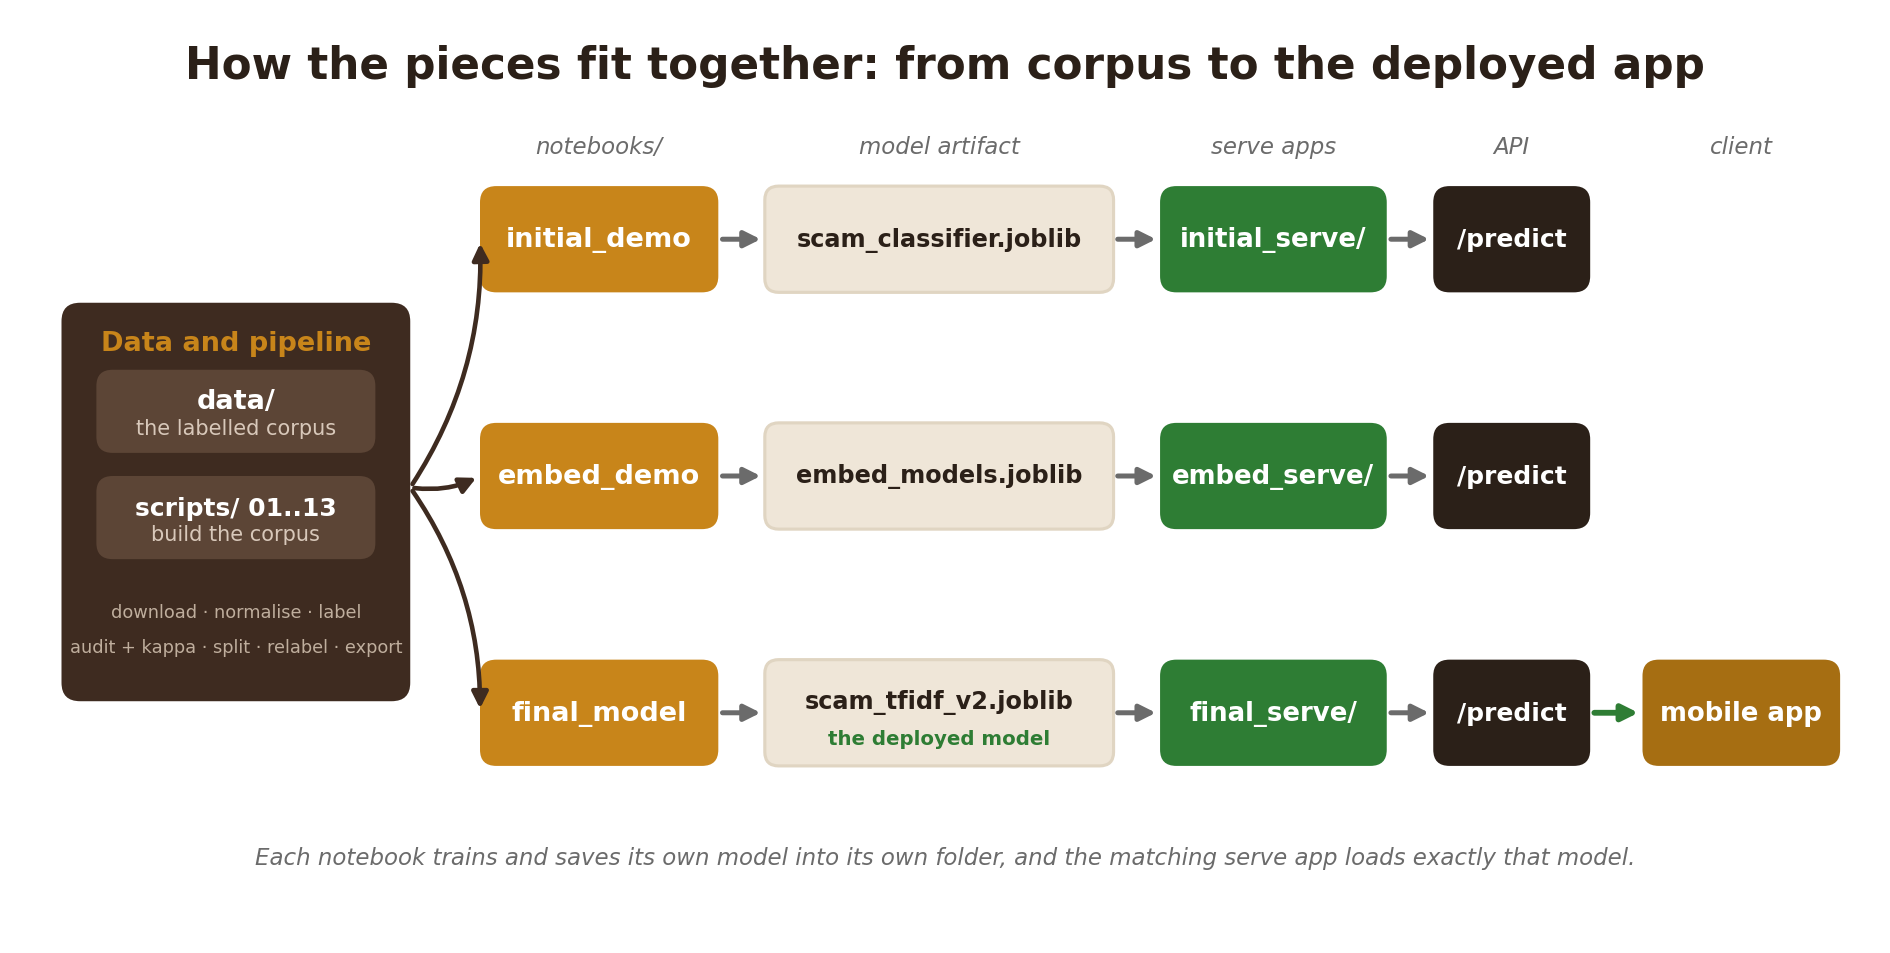
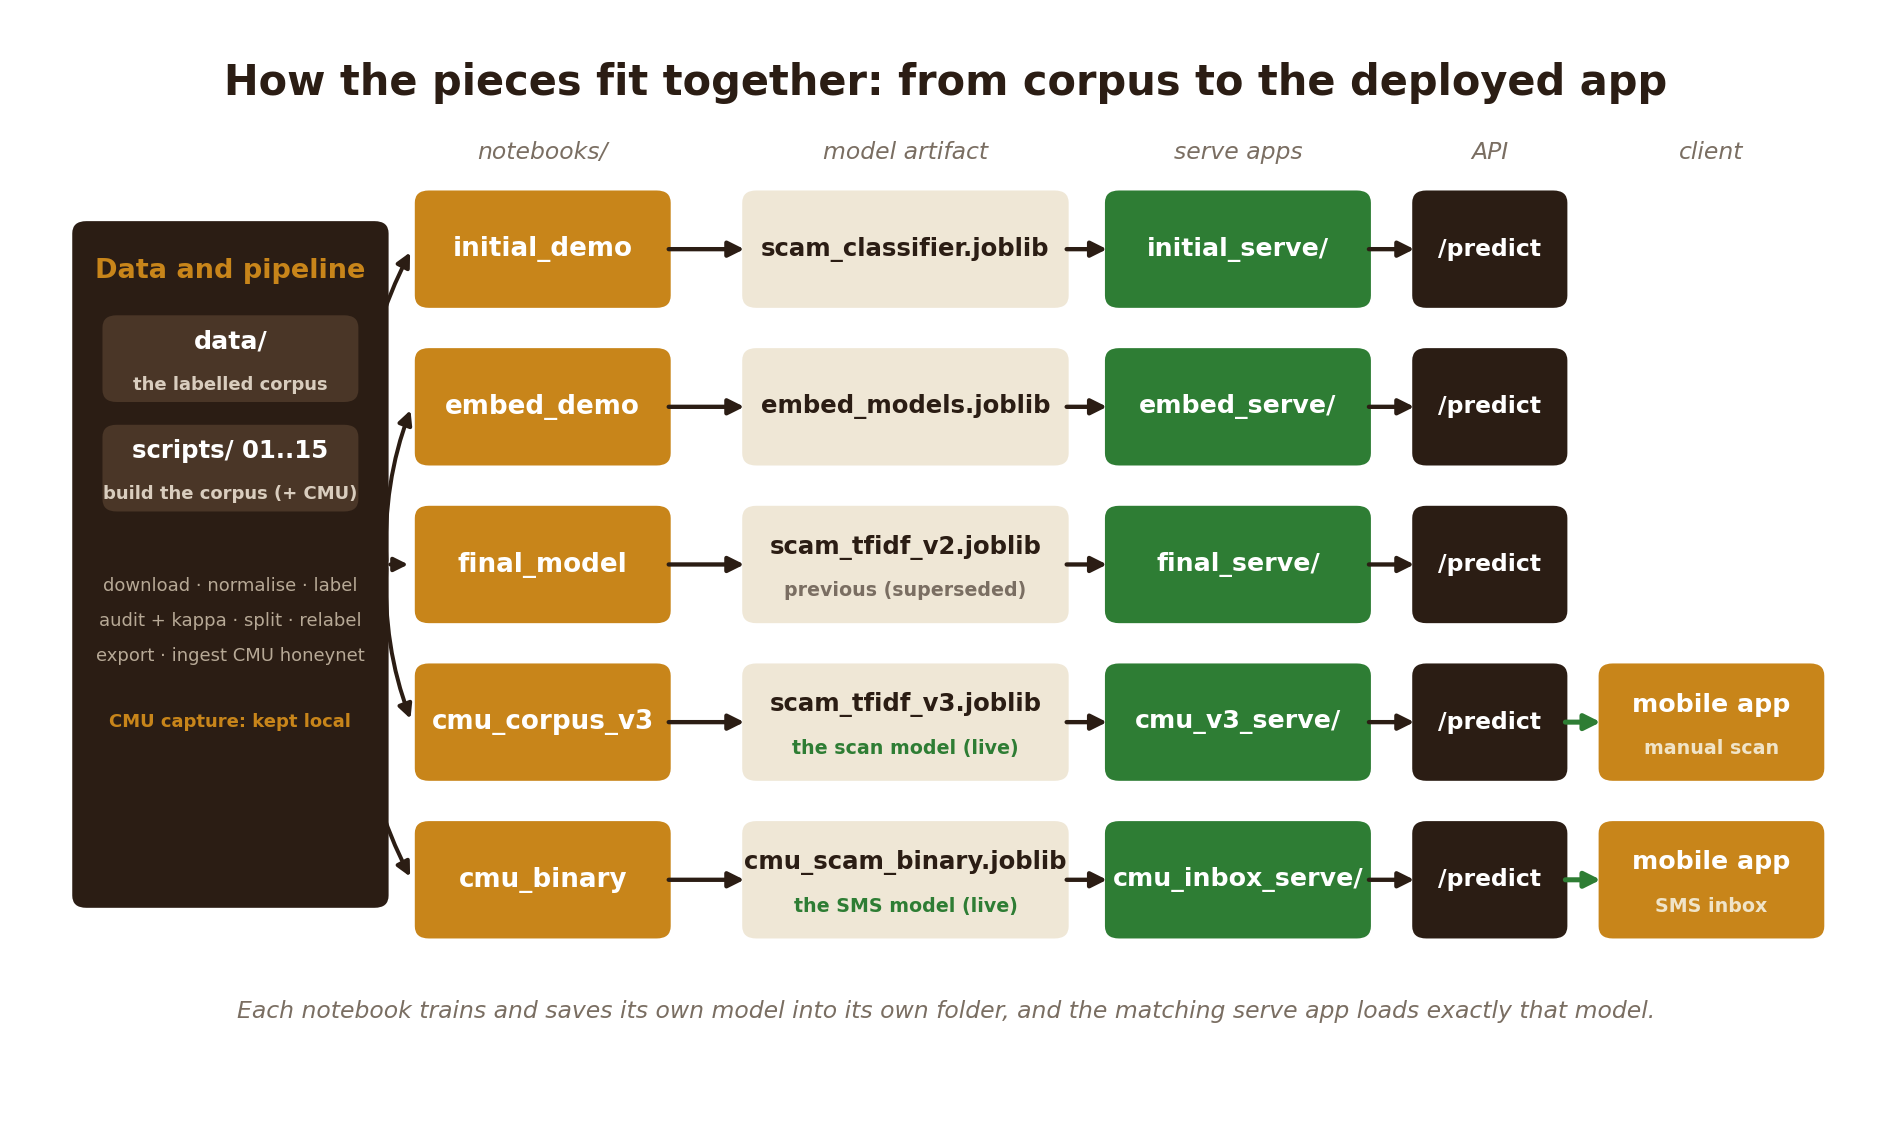
Regenerate pipeline diagram in code

diff --git a/scripts/make_ml_pipeline_diagram.py b/scripts/make_ml_pipeline_diagram.py
@@ -1,0 +1,124 @@
+"""Draw the ml/ pipeline diagram: corpus -> notebooks -> models -> serve -> app.
+
+Recreates docs/assets/ml/ml_pipeline.png in code so it can be regenerated. Shows
+all five models. The two honeynet models are marked as the ones the app runs today:
+the four-class v3 backs the manual scan, and the binary model backs the SMS feature.
+
+Run:  python scripts/make_ml_pipeline_diagram.py
+"""
+
+from pathlib import Path
+
+import matplotlib
+matplotlib.use("Agg")
+import matplotlib.pyplot as plt
+from matplotlib.patches import FancyBboxPatch, FancyArrowPatch
+
+OUT = Path(__file__).resolve().parent.parent / "docs" / "assets" / "ml" / "ml_pipeline.png"
+
+# Earth palette, consistent with the app and the other README diagrams
+GOLD   = "#C8851A"
+CREAM  = "#EFE7D6"
+GREEN  = "#2E7D34"
+BROWN  = "#2B1D14"
+BROWN2 = "#4A3627"
+MUTED  = "#7A6E62"
+WHITE  = "#FFFFFF"
+DARKTX = "#2B1D14"
+
+plt.rcParams["font.family"] = "DejaVu Sans"
+
+fig, ax = plt.subplots(figsize=(18, 10.5))
+ax.set_xlim(0, 18)
+ax.set_ylim(0, 12)
+ax.axis("off")
+
+
+def box(cx, cy, w, h, fc, text, tc, sub=None, sc=None, fs=15, sub_fs=11):
+    ax.add_patch(FancyBboxPatch(
+        (cx - w / 2, cy - h / 2), w, h,
+        boxstyle="round,pad=0.02,rounding_size=0.14",
+        facecolor=fc, edgecolor="none"))
+    if sub:
+        ax.text(cx, cy + 0.20, text, ha="center", va="center", color=tc,
+                fontsize=fs, fontweight="bold")
+        ax.text(cx, cy - 0.30, sub, ha="center", va="center", color=sc,
+                fontsize=sub_fs, fontweight="bold")
+    else:
+        ax.text(cx, cy, text, ha="center", va="center", color=tc,
+                fontsize=fs, fontweight="bold")
+
+
+def harrow(x0, x1, y, color=BROWN, lw=2.4):
+    ax.annotate("", xy=(x1, y), xytext=(x0, y),
+                arrowprops=dict(arrowstyle="-|>", color=color, lw=lw,
+                                shrinkA=0, shrinkB=0, mutation_scale=18))
+
+
+def curve(x0, y0, x1, y1, color=BROWN):
+    ax.add_patch(FancyArrowPatch(
+        (x0, y0), (x1, y1), arrowstyle="-|>", color=color, lw=2.2,
+        mutation_scale=16, connectionstyle=f"arc3,rad={(y0 - y1) * 0.06:.3f}"))
+
+
+# --- column geometry -------------------------------------------------------
+NB, ART, SRV, API, CLI = 5.0, 8.6, 11.9, 14.4, 16.6
+NB_W, ART_W, SRV_W, API_W, CLI_W = 2.5, 3.2, 2.6, 1.5, 2.2
+H = 1.3
+rows = [9.6, 7.8, 6.0, 4.2, 2.4]
+
+# --- title + column headers ------------------------------------------------
+ax.text(9.0, 11.5, "How the pieces fit together: from corpus to the deployed app",
+        ha="center", va="center", fontsize=23, fontweight="bold", color=DARKTX)
+for x, label in [(NB, "notebooks/"), (ART, "model artifact"), (SRV, "serve apps"),
+                 (API, "API"), (CLI, "client")]:
+    ax.text(x, 10.7, label, ha="center", va="center", fontsize=13,
+            style="italic", color=MUTED)
+
+# --- data + pipeline box (spans the rows) ----------------------------------
+dx, dtop, dbot = 1.9, 9.9, 2.1
+ax.add_patch(FancyBboxPatch((dx - 1.55, dbot), 3.1, dtop - dbot,
+             boxstyle="round,pad=0.02,rounding_size=0.14", facecolor=BROWN, edgecolor="none"))
+ax.text(dx, 9.35, "Data and pipeline", ha="center", va="center",
+        color=GOLD, fontsize=15, fontweight="bold")
+box(dx, 8.35, 2.5, 0.95, BROWN2, "data/", WHITE, "the labelled corpus", "#D9CDBE", fs=14, sub_fs=10)
+box(dx, 7.10, 2.5, 0.95, BROWN2, "scripts/ 01..15", WHITE, "build the corpus (+ CMU)", "#D9CDBE", fs=13.5, sub_fs=10)
+ax.text(dx, 5.75, "download · normalise · label", ha="center", va="center", color="#B7A996", fontsize=10)
+ax.text(dx, 5.35, "audit + kappa · split · relabel", ha="center", va="center", color="#B7A996", fontsize=10)
+ax.text(dx, 4.95, "export · ingest CMU honeynet", ha="center", va="center", color="#B7A996", fontsize=10)
+ax.text(dx, 4.20, "CMU capture: kept local", ha="center", va="center", color=GOLD, fontsize=10, fontweight="bold")
+
+# arrows from the data box to each notebook
+for y in rows:
+    curve(dx + 1.55, 6.0, NB - NB_W / 2 - 0.05, y)
+
+# --- the five rows ---------------------------------------------------------
+# notebook, artifact, artifact-subtitle, sub-colour, serve, client, client-role
+R = [
+    ("initial_demo",   "scam_classifier.joblib",  None,                     None,   "initial_serve/",   None,         None),
+    ("embed_demo",     "embed_models.joblib",     None,                     None,   "embed_serve/",     None,         None),
+    ("final_model",    "scam_tfidf_v2.joblib",    "previous (superseded)",  MUTED,  "final_serve/",     None,         None),
+    ("cmu_corpus_v3",  "scam_tfidf_v3.joblib",    "the scan model (live)",  GREEN,  "cmu_v3_serve/",    "mobile app", "manual scan"),
+    ("cmu_binary",     "cmu_scam_binary.joblib",  "the SMS model (live)",   GREEN,  "cmu_inbox_serve/", "mobile app", "SMS inbox"),
+]
+
+for (nb, art, sub, sc, srv, cli, role), y in zip(R, rows):
+    box(NB, y, NB_W, H, GOLD, nb, WHITE, fs=14.5)
+    box(ART, y, ART_W, H, CREAM, art, DARKTX, sub, sc, fs=13.5, sub_fs=10.5)
+    box(SRV, y, SRV_W, H, GREEN, srv, WHITE, fs=14)
+    box(API, y, API_W, H, BROWN, "/predict", WHITE, fs=13)
+    harrow(NB + NB_W / 2, ART - ART_W / 2, y)
+    harrow(ART + ART_W / 2, SRV - SRV_W / 2, y)
+    harrow(SRV + SRV_W / 2, API - API_W / 2, y)
+    if cli:
+        box(CLI, y, CLI_W, H, GOLD, cli, WHITE, role, "#F0E4C8", fs=14, sub_fs=10.5)
+        harrow(API + API_W / 2, CLI - CLI_W / 2, y, color=GREEN, lw=2.8)
+
+# --- caption ---------------------------------------------------------------
+ax.text(9.0, 0.9,
+        "Each notebook trains and saves its own model into its own folder, and the matching serve app loads exactly that model.",
+        ha="center", va="center", fontsize=13, style="italic", color=MUTED)
+
+OUT.parent.mkdir(parents=True, exist_ok=True)
+fig.savefig(OUT, dpi=130, bbox_inches="tight", facecolor="white", pad_inches=0.3)
+print("wrote", OUT, f"({OUT.stat().st_size/1e3:.0f} KB)")

diff --git a/ml/README.md b/ml/README.md
@@ -243,7 +243,7 @@ in bold are the ones the app runs today.
 ## How the pieces fit together
 
 ![From the corpus, through the scripts and the notebooks, to the serve apps, the predict API, and the mobile app](../docs/assets/ml/ml_pipeline.png)
-<p align="center"><em>The diagram traces the first three notebooks; the two honeynet notebooks (<code>cmu_binary</code>, <code>cmu_corpus_v3</code>) extend the same corpus-to-serve pattern.</em></p>
+<p align="center"><em>All five notebooks follow the same path — corpus to notebook to artifact to serve app to <code>/predict</code>. The two honeynet models are the ones the app runs today: <code>cmu_corpus_v3</code> backs the manual scan and <code>cmu_binary</code> backs the SMS inbox.</em></p>
 
 Each notebook contains its own training code; there is no shared `demo_model` or
 `embed_model` module to import. A notebook writes its artifacts into its own folder, and